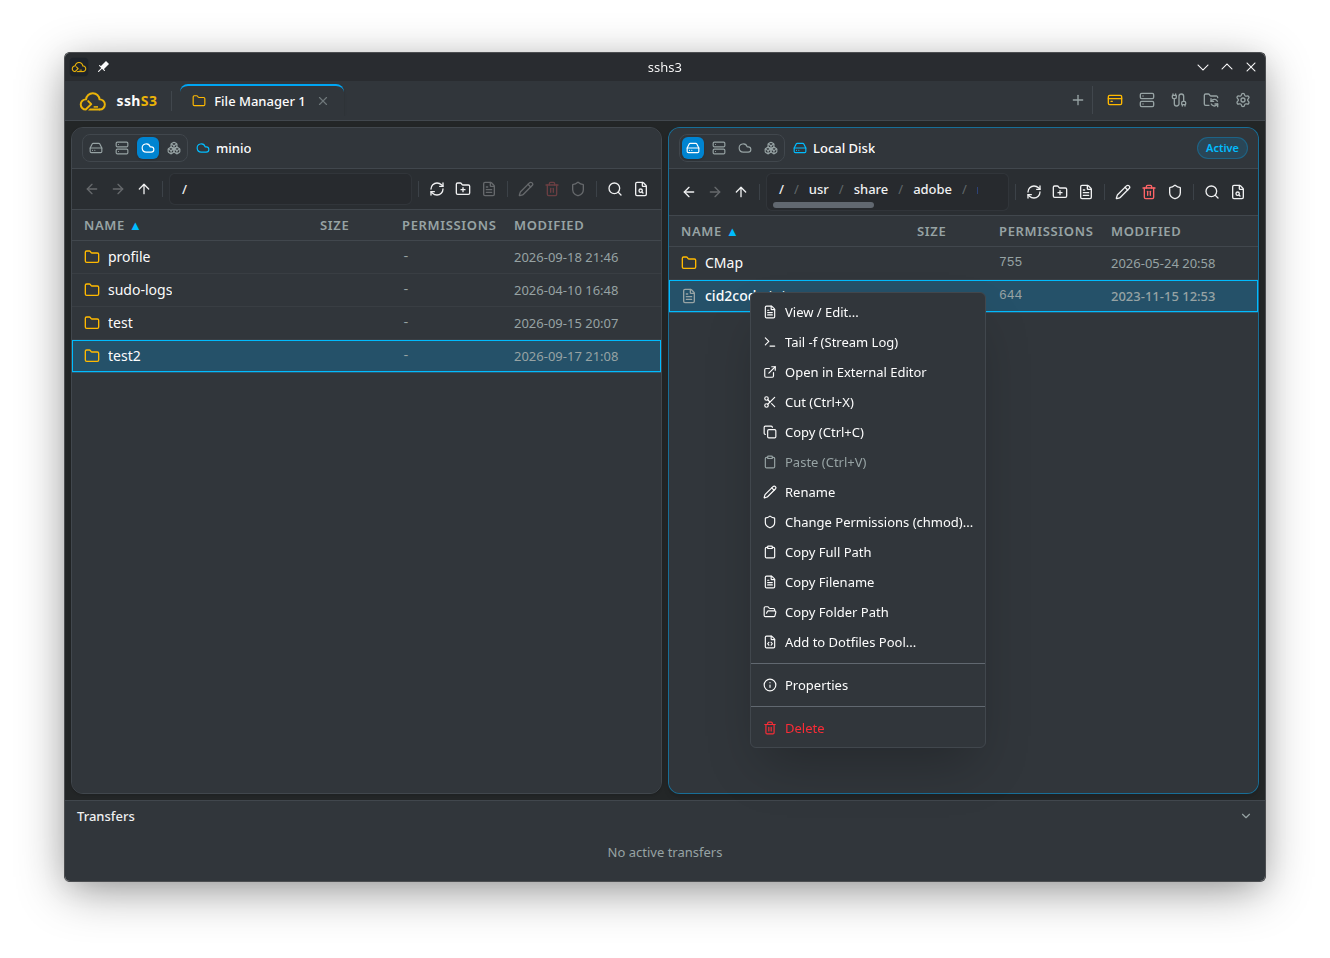
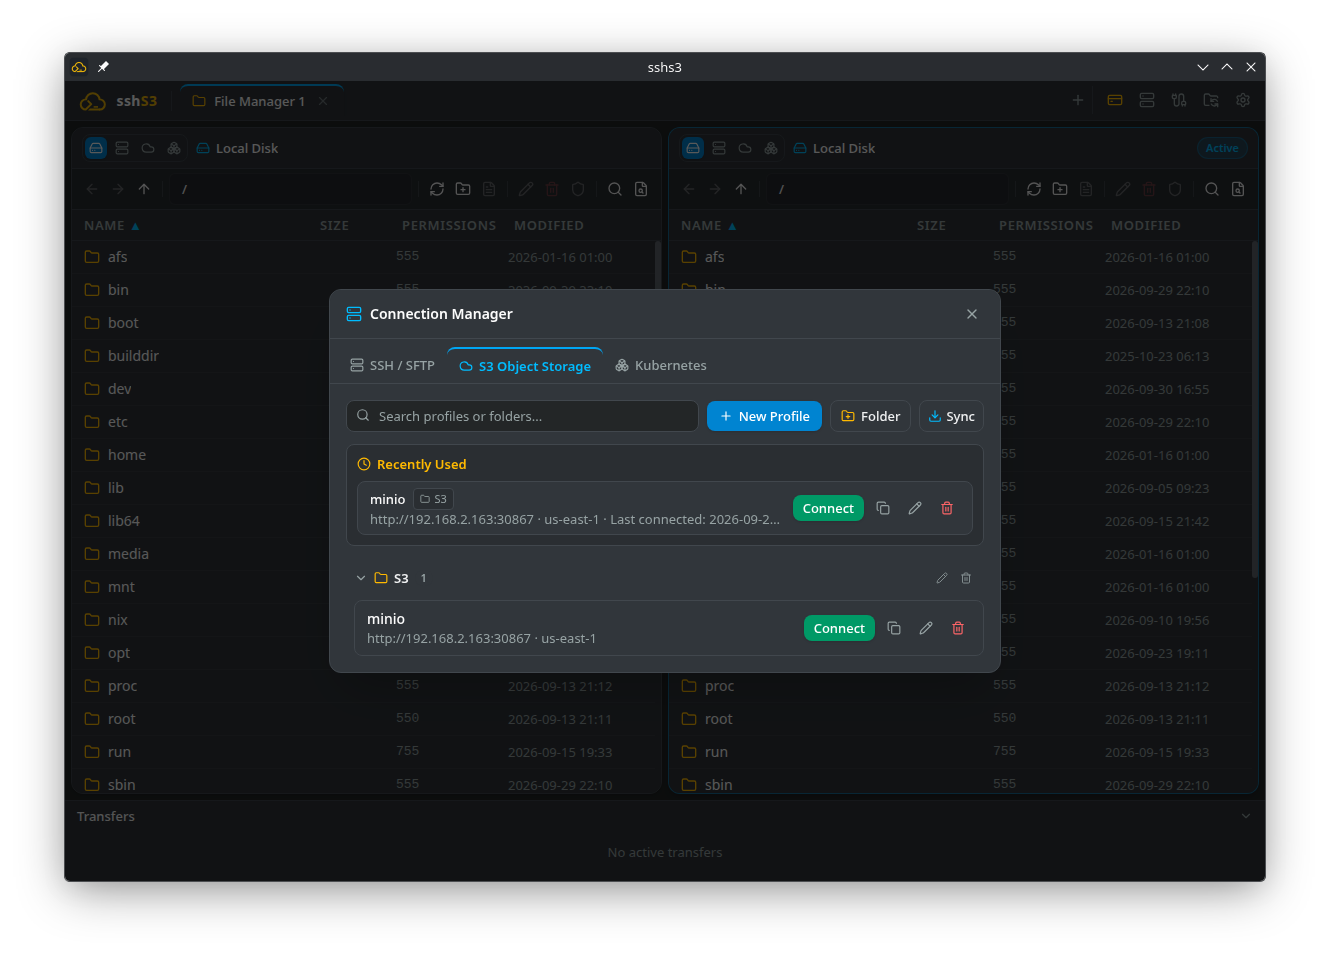
docs: use the new screenshot set only (add file-options, real filemanager; drop landing)

diff --git a/README.md b/README.md
@@ -19,10 +19,6 @@
   <summary><b>🖥 Terminal & Split Views</b> (SSH, Local Shell)</summary>
   <br>
   <p align="center">
-    <img src="docs/screenshots/landing.png" alt="sshS3 start screen" width="850" />
-    <br><em>Start screen with quick access to terminals, the file manager, saved connections and cloud sync</em>
-  </p>
-  <p align="center">
     <img src="docs/screenshots/split.png" alt="Three split panes: remote SSH, local shell and a second SSH session" width="850" />
     <br><em>Konsole-style recursive split panes (horizontal & vertical) with independent sessions</em>
   </p>
@@ -45,8 +41,12 @@
   <summary><b>📁 Dual-Pane File Manager & S3 Object Storage</b> (SFTP, S3, Directory Sync)</summary>
   <br>
   <p align="center">
-    <img src="docs/screenshots/filemanager.png" alt="Dual-pane file manager with an S3 bucket and local disk, showing the context menu" width="850" />
-    <br><em>Dual-pane file explorer for local disk, SFTP servers, and S3 buckets</em>
+    <img src="docs/screenshots/filemanager.png" alt="Connection Manager S3 tab over the dual-pane file manager" width="850" />
+    <br><em>Dual-pane file explorer for local disk, SFTP servers, and S3 buckets, with the Connection Manager</em>
+  </p>
+  <p align="center">
+    <img src="docs/screenshots/file-options.png" alt="Dual-pane file manager with an S3 bucket and local disk, showing the context menu" width="850" />
+    <br><em>File operations from the context menu: copy, rename, permissions, properties and more</em>
   </p>
   <p align="center">
     <img src="docs/screenshots/markdown.png" alt="Built-in editor showing a rendered Markdown preview" width="850" />
